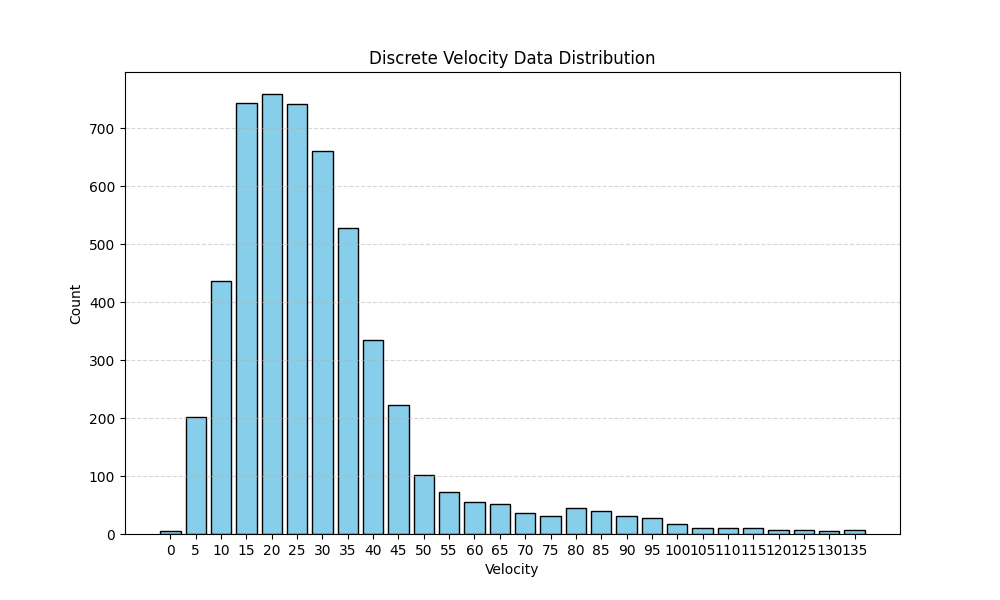
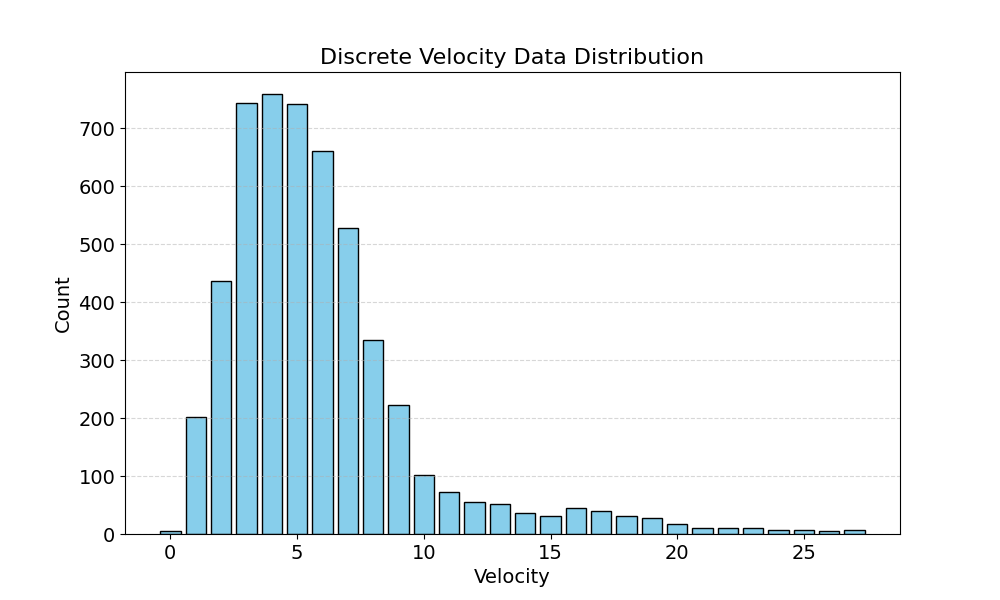
commit

diff --git a/expert_demonstration/plot_expert.py b/expert_demonstration/plot_expert.py
@@ -18,11 +18,11 @@ def plot_bins_histogram(data, title, xlabel, bin_step, savename='CarausuisC00_hi
     count_per_bin.index = range(len(count_per_bin.index))
     plt.figure(figsize=(10, 6))
     plt.bar(count_per_bin.index, count_per_bin.values, color='skyblue', edgecolor='black')
-    plt.title(title)
-    x_ticks = count_per_bin.index
-    plt.xticks(x_ticks, [int(tick * bin_step) for tick in x_ticks])
-    plt.xlabel(xlabel)
-    plt.ylabel('Count')
+    plt.title(title, fontsize=16)
+    plt.xticks(fontsize=14)
+    plt.yticks(fontsize=14)
+    plt.xlabel(xlabel, fontsize=14)
+    plt.ylabel('Count', fontsize=14)
     plt.grid(axis='y', linestyle='--', alpha=0.5)
     plt.savefig('expert_demonstration/expert/plot/' + savename + '.png')
 
